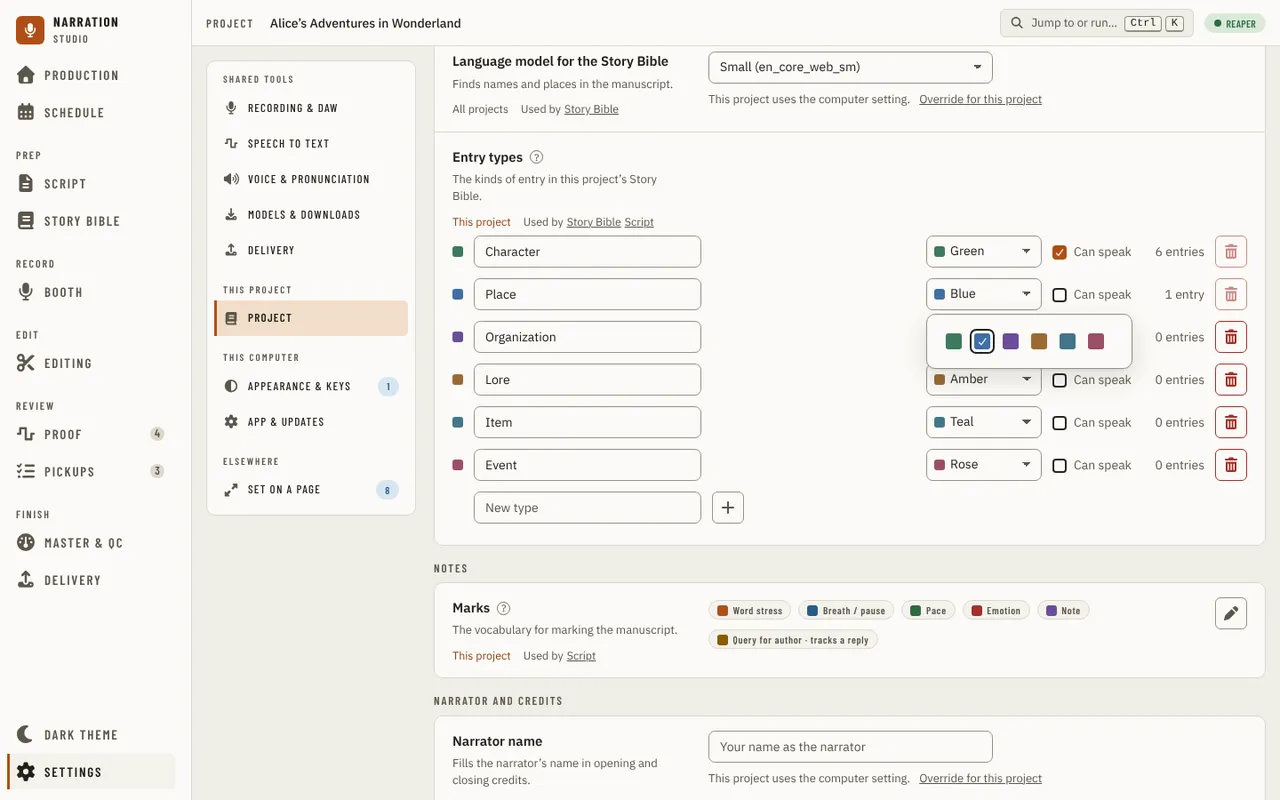
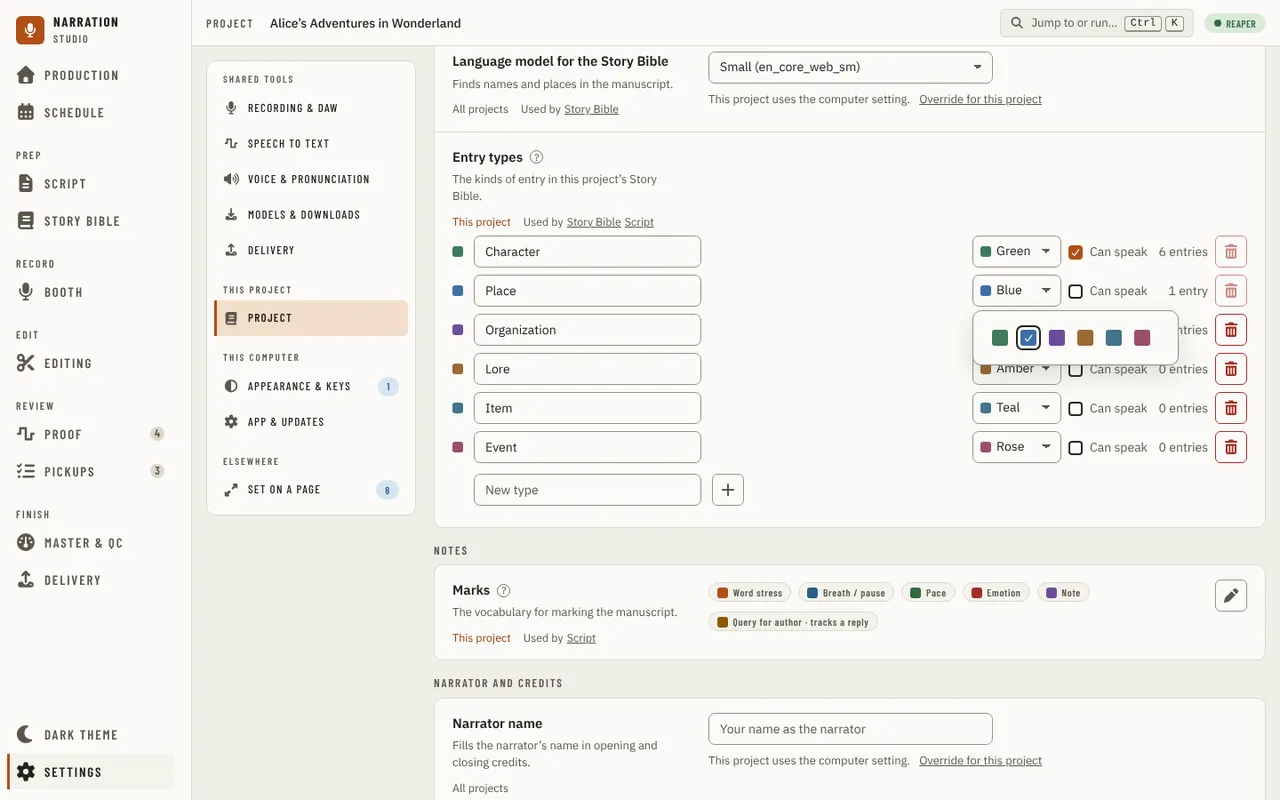
fix(ui): show each entry type name whole at every window width
A name box squeezed to fit cut the last letter of Organization at 860 px. The list breaks to
two lines under 456 px of its own width, the name box is at least 6.75 rem, and the colour
box is 100 px. The sweep test now runs every pixel from 400 to 1300 px and also fails on a
name its box cuts.

Refs #3674

Claude-Session: https://claude.ai/code/session_01EBTykgTV74DMafUPiMxBr9

diff --git a/src/studio/ui/src/components/settings/page/StoryBibleTypesPanel.tsx b/src/studio/ui/src/components/settings/page/StoryBibleTypesPanel.tsx
@@ -73,16 +73,16 @@ function TypeRow({
   };
   const blocked = count === undefined ? 'Reading the entries…' : count > 0 ? `${type.name} is in use` : last ? 'The last type stays' : undefined;
   return (
-    // From 448 px of the list's own width a type is one line. Narrower, the name takes the first line and the rest the second, indented to
+    // From 456 px of the list's own width a type is one line. Narrower, the name takes the first line and the rest the second, indented to
     // start under the name box, with less room inside a type than between two (alignment audit R3SE1-2, XSE2-10, XSE1-15). Under a 24 rem list
     // (the 390 px window) the indent goes: indented, the line was 16 px wider than the type and Remove hung past the name box (A4).
-    <li className="flex flex-wrap items-center gap-x-3 gap-y-2 @[28rem]:flex-nowrap">
-      <span className="flex min-w-0 basis-full items-center gap-3 @[28rem]:flex-1 @[28rem]:basis-auto">
+    <li className="flex flex-wrap items-center gap-x-3 gap-y-2 @[28.5rem]:flex-nowrap">
+      <span className="flex min-w-0 basis-full items-center gap-3 @[28.5rem]:flex-1 @[28.5rem]:basis-auto">
         <Swatch colour={kindSwatch([type], type.name)} />
         <TextField
           label={`Type name: ${type.name}`}
           value={value}
-          className="min-w-[8rem] flex-1 @[28rem]:max-w-[16rem] @[28rem]:min-w-[5rem]"
+          className="min-w-[8rem] flex-1 @[28.5rem]:max-w-[16rem] @[28.5rem]:min-w-[6.75rem]"
           disabled={busy}
           onChange={setValue}
           onBlur={commit}
@@ -91,12 +91,12 @@ function TypeRow({
           }}
         />
       </span>
-      <span className="flex w-full items-center gap-2 pl-6 @max-sm:pl-0 @[28rem]:w-auto @[28rem]:gap-2 @[28rem]:pl-0">
+      <span className="flex w-full items-center gap-2 pl-6 @max-sm:pl-0 @[28.5rem]:w-auto @[28.5rem]:gap-2 @[28.5rem]:pl-0">
         <ColourField
           mode="palette"
           form="popover"
           label={`Colour for ${type.name}`}
-          className="w-[100px] @[28rem]:w-[120px]"
+          className="w-[100px]"
           choices={COLOUR_CHOICES}
           value={type.colour}
           pending={busy}
@@ -111,7 +111,7 @@ function TypeRow({
             </span>
           </Checkbox>
         </TooltipTarget>
-        <span data-type-count={type.name} className="ml-auto min-w-[60px] text-right text-sm whitespace-nowrap text-[var(--text-muted)] @[28rem]:ml-0">
+        <span data-type-count={type.name} className="ml-auto min-w-[60px] text-right text-sm whitespace-nowrap text-[var(--text-muted)] @[28.5rem]:ml-0">
           {count === undefined ? '' : `${plural(count, 'entry', 'entries')}`}
         </span>
         <IconButton
@@ -195,7 +195,7 @@ export function StoryBibleTypesList({ types, counts, busy = false, error, onRena
     <>
       <div className="@container flex w-full min-w-0 flex-col gap-3">
         {types ? (
-          <ul className="m-0 flex list-none flex-col gap-5 p-0 @[28rem]:gap-2">
+          <ul className="m-0 flex list-none flex-col gap-5 p-0 @[28.5rem]:gap-2">
             {types.map((type) => (
               <TypeRow
                 key={rowKey.of(type.name)}
@@ -220,7 +220,7 @@ export function StoryBibleTypesList({ types, counts, busy = false, error, onRena
               label="New type"
               placeholder="New type"
               value={name}
-              className="min-w-[8rem] flex-1 @[28rem]:max-w-[16rem] @[28rem]:min-w-[5rem]"
+              className="min-w-[8rem] flex-1 @[28.5rem]:max-w-[16rem] @[28.5rem]:min-w-[6.75rem]"
               disabled={busy}
               onChange={setName}
               onKeyDown={(event) => {

diff --git a/src/studio/ui/tests/visual/settings-entry-types-half-width.spec.ts b/src/studio/ui/tests/visual/settings-entry-types-half-width.spec.ts
@@ -37,21 +37,29 @@ for (const width of WIDTHS) {
       expect.soft(Math.abs(measured.listLeft - measured.labelLeft), 'the list starts at the label’s left edge').toBeLessThan(24);
       expect.soft(measured.listWidth, 'the list takes the row’s width').toBeGreaterThan(measured.row * 0.85);
       for (const [index, type] of measured.types.entries()) expect.soft(type.height, `type ${index + 1} is one line`).toBeLessThan(44);
-      expect.soft(measured.colourWidth, 'the colour box is wide enough to show the colour’s name').toBeGreaterThanOrEqual(120);
+      expect.soft(measured.colourWidth, 'the colour box is wide enough to show the colour’s name').toBeGreaterThanOrEqual(100);
     });
   }
 }
 
-// A sweep, because the rail appears at 860 px and takes width from the list: a width that is one line on both sides of it can still be two lines at it.
-test('Settings, Entry types: every window from 554 to 1300 px draws each type on one line', async ({ page }) => {
+// A sweep, because the rail appears at 860 px and takes width from the list: a width that is one line on both sides of it can still be two lines
+// at it, and a name box squeezed to fit can cut the name's last letter.
+test('Settings, Entry types: every window from 400 to 1300 px shows each name whole, and one line per type from 554 px', async ({ page }) => {
   await openEntryTypes(page, 1300, 'light');
   const wrapped: number[] = [];
-  for (let width = 554; width <= 1300; width += 3) {
+  const clipped: string[] = [];
+  for (let width = 400; width <= 1300; width += 1) {
     await page.setViewportSize({ width, height: 900 });
-    const tall = await page
-      .locator('[data-row="project.types"] li')
-      .evaluateAll((items) => items.filter((item) => item.getBoundingClientRect().height >= 44).length);
-    if (tall > 0) wrapped.push(width);
+    const found = await page.locator('[data-row="project.types"] li').evaluateAll((items) => ({
+      tall: items.filter((item) => item.getBoundingClientRect().height >= 44).length,
+      cut: items
+        .map((item) => item.querySelector('input'))
+        .filter((input): input is HTMLInputElement => input !== null && input.scrollWidth > input.clientWidth)
+        .map((input) => input.value),
+    }));
+    if (width >= 554 && found.tall > 0) wrapped.push(width);
+    if (found.cut.length > 0) clipped.push(`${width}: ${found.cut.join(', ')}`);
   }
   expect(wrapped, 'widths where a type takes two lines').toEqual([]);
+  expect(clipped, 'widths where a name is cut by its box').toEqual([]);
 });
